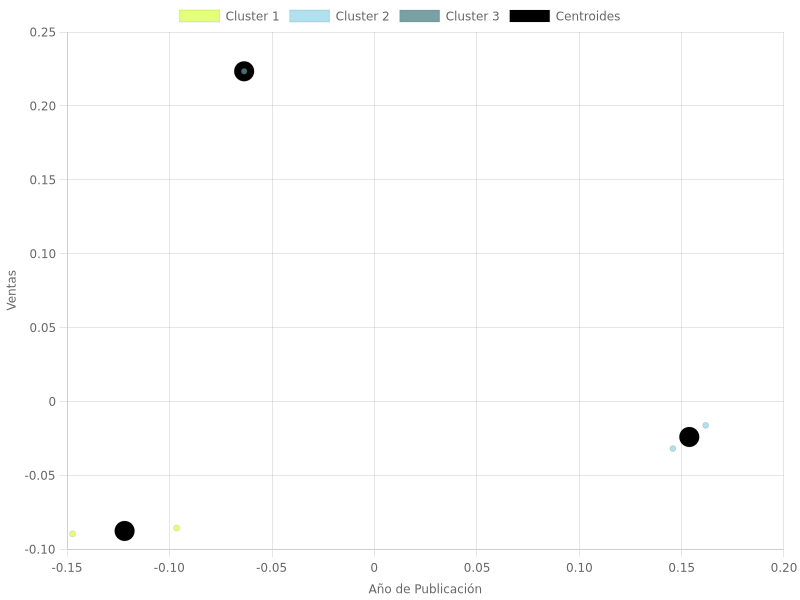
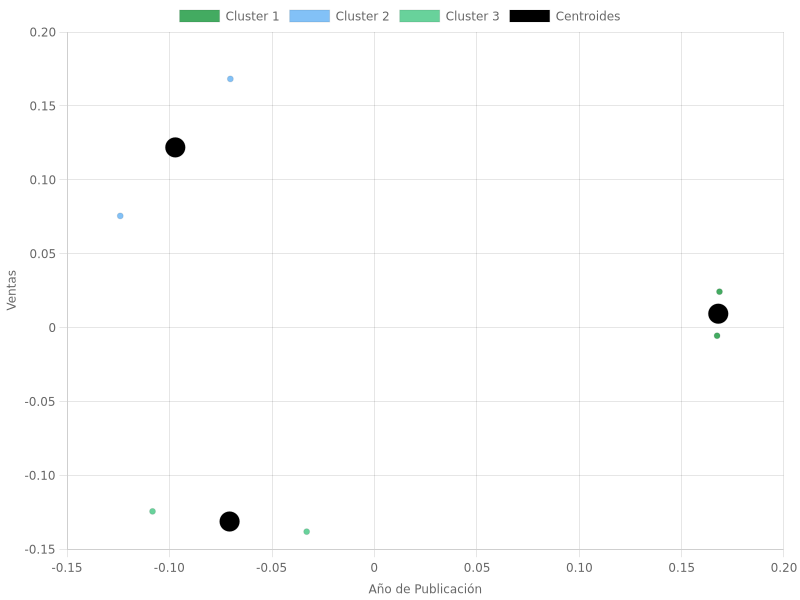
Fixes on backend

diff --git a/src/plays/plays.routes.ts b/src/plays/plays.routes.ts
@@ -1,18 +1,21 @@
-import { Router } from "express"
+import { Router } from "express";
 
 // Controllers
-import { getPlays } from "./actions/get.action"
-import { postPlay } from "./actions/post.action"
-import { clusterize } from "./actions/clusterize.action"
-import { getRecommend } from "./actions/get-recommend.action"
-import { getByClusterId } from "./actions/get-by-cluster-Id.action"
+import { getPlays } from "./actions/get.action";
+import { postPlay } from "./actions/post.action";
+import { clusterize } from "./actions/clusterize.action";
+import { getRecommend } from "./actions/get-recommend.action";
+import { getByClusterId } from "./actions/get-by-cluster-Id.action";
+import getOnePlay from "./actions/getOne.action";
 
-const router = Router()
+const router = Router();
 
-router.get("/author-works", getPlays)
-router.post("/author-works", postPlay)
-router.get("/cluster", clusterize)
-router.get("/recommend/:id", getRecommend)
-router.get("/clusterId/:clusterId", getByClusterId)
+router.get("/author-works", getPlays);
+router.get("/author-work/:workId", getOnePlay);
+router.get("/author-works", getPlays);
+router.post("/author-works", postPlay);
+router.get("/cluster", clusterize);
+router.get("/recommend/:id", getRecommend);
+router.get("/clusterId/:clusterId", getByClusterId);
 
-export default router
+export default router;

diff --git a/src/plays/actions/get-recommend.action.ts b/src/plays/actions/get-recommend.action.ts
@@ -1,20 +1,19 @@
-import { Request, Response } from 'express'
-import { Play } from '../plays.schema'
+import { Request, Response } from "express";
+import { Play } from "../plays.schema";
 
-export const getRecommend = async ( 
-  req: Request,
-  res: Response
-) => {
+export const getRecommend = async (req: Request, res: Response) => {
   try {
-    const { id } = req.params
-    const play = await Play.findById(id)
-    if (play !== null){
-      const plays = await Play.find({ clusterId: play.clusterId, _id: { $ne: id } })
-      res.status(200).json({ plays })
+    const { id } = req.params;
+    const play = await Play.findById(id);
+    if (play !== null) {
+      const plays = await Play.find({
+        clusterId: play.clusterId + "",
+        _id: { $ne: id },
+      });
+      res.status(200).json({ items: plays });
     }
-    
   } catch (error) {
-    res.status(400).json({"message" : "Ocurrió un error"})
-    console.log(error)
+    res.status(400).json({ message: "Ocurrió un error" });
+    console.log(error);
   }
-}
+};

diff --git a/src/plays/actions/clusterize.action.ts b/src/plays/actions/clusterize.action.ts
@@ -3,9 +3,9 @@ import { Request, Response } from "express";
 import { Play } from "../plays.schema";
 import getTextVectors from "../../actions/get-text-vectors/get-text-vectors";
 import drawChart from "./draw-chart";
-import drawChart3D from "./draw-chart-3d";
+//import drawChart3D from "./draw-chart-3d";
 
-let NUMBER_DIMENTIONS = 2;
+let NUMBER_DIMENTIONS = 5;
 
 export const clusterize = async (_req: Request, res: Response) => {
   try {
@@ -57,7 +57,7 @@ export const clusterize = async (_req: Request, res: Response) => {
 
     if (NUMBER_DIMENTIONS === 3) {
       // Dibujar el gráfico
-      await drawChart3D(data, result.centroids, result.clusters);
+      //await drawChart3D(data, result.centroids, result.clusters);
     }
 
     res.status(200).json(result);

diff --git a/src/plays/actions/getOne.action.ts b/src/plays/actions/getOne.action.ts
@@ -1,0 +1,20 @@
+import { Request, Response } from "express";
+import { Play } from "../plays.schema";
+
+const getOnePlay = async (req: Request, res: Response) => {
+  try {
+    const { workId } = req.params;
+    const play = await Play.findById(workId);
+    if (!play) {
+      return res.status(404).json({ message: "Play not found" });
+    }
+    res.status(200).json(play);
+    return; // Add this line
+  } catch (error) {
+    res.status(400).json({ message: "Ocurrió un error" });
+    console.log(error);
+    return;
+  }
+};
+
+export default getOnePlay;

diff --git a/src/index.ts b/src/index.ts
@@ -1,5 +1,6 @@
 import express from "express";
 import { router } from "./routes";
+import cors from "cors"; // Import the cors package
 
 // declaration
 const app = express();
@@ -10,6 +11,7 @@ app.set("port", process.env.PORT || 3000);
 
 // Middlewares
 app.use(express.json());
+app.use(cors()); // Enable CORS
 
 // routes
 app.use("/api", router);
